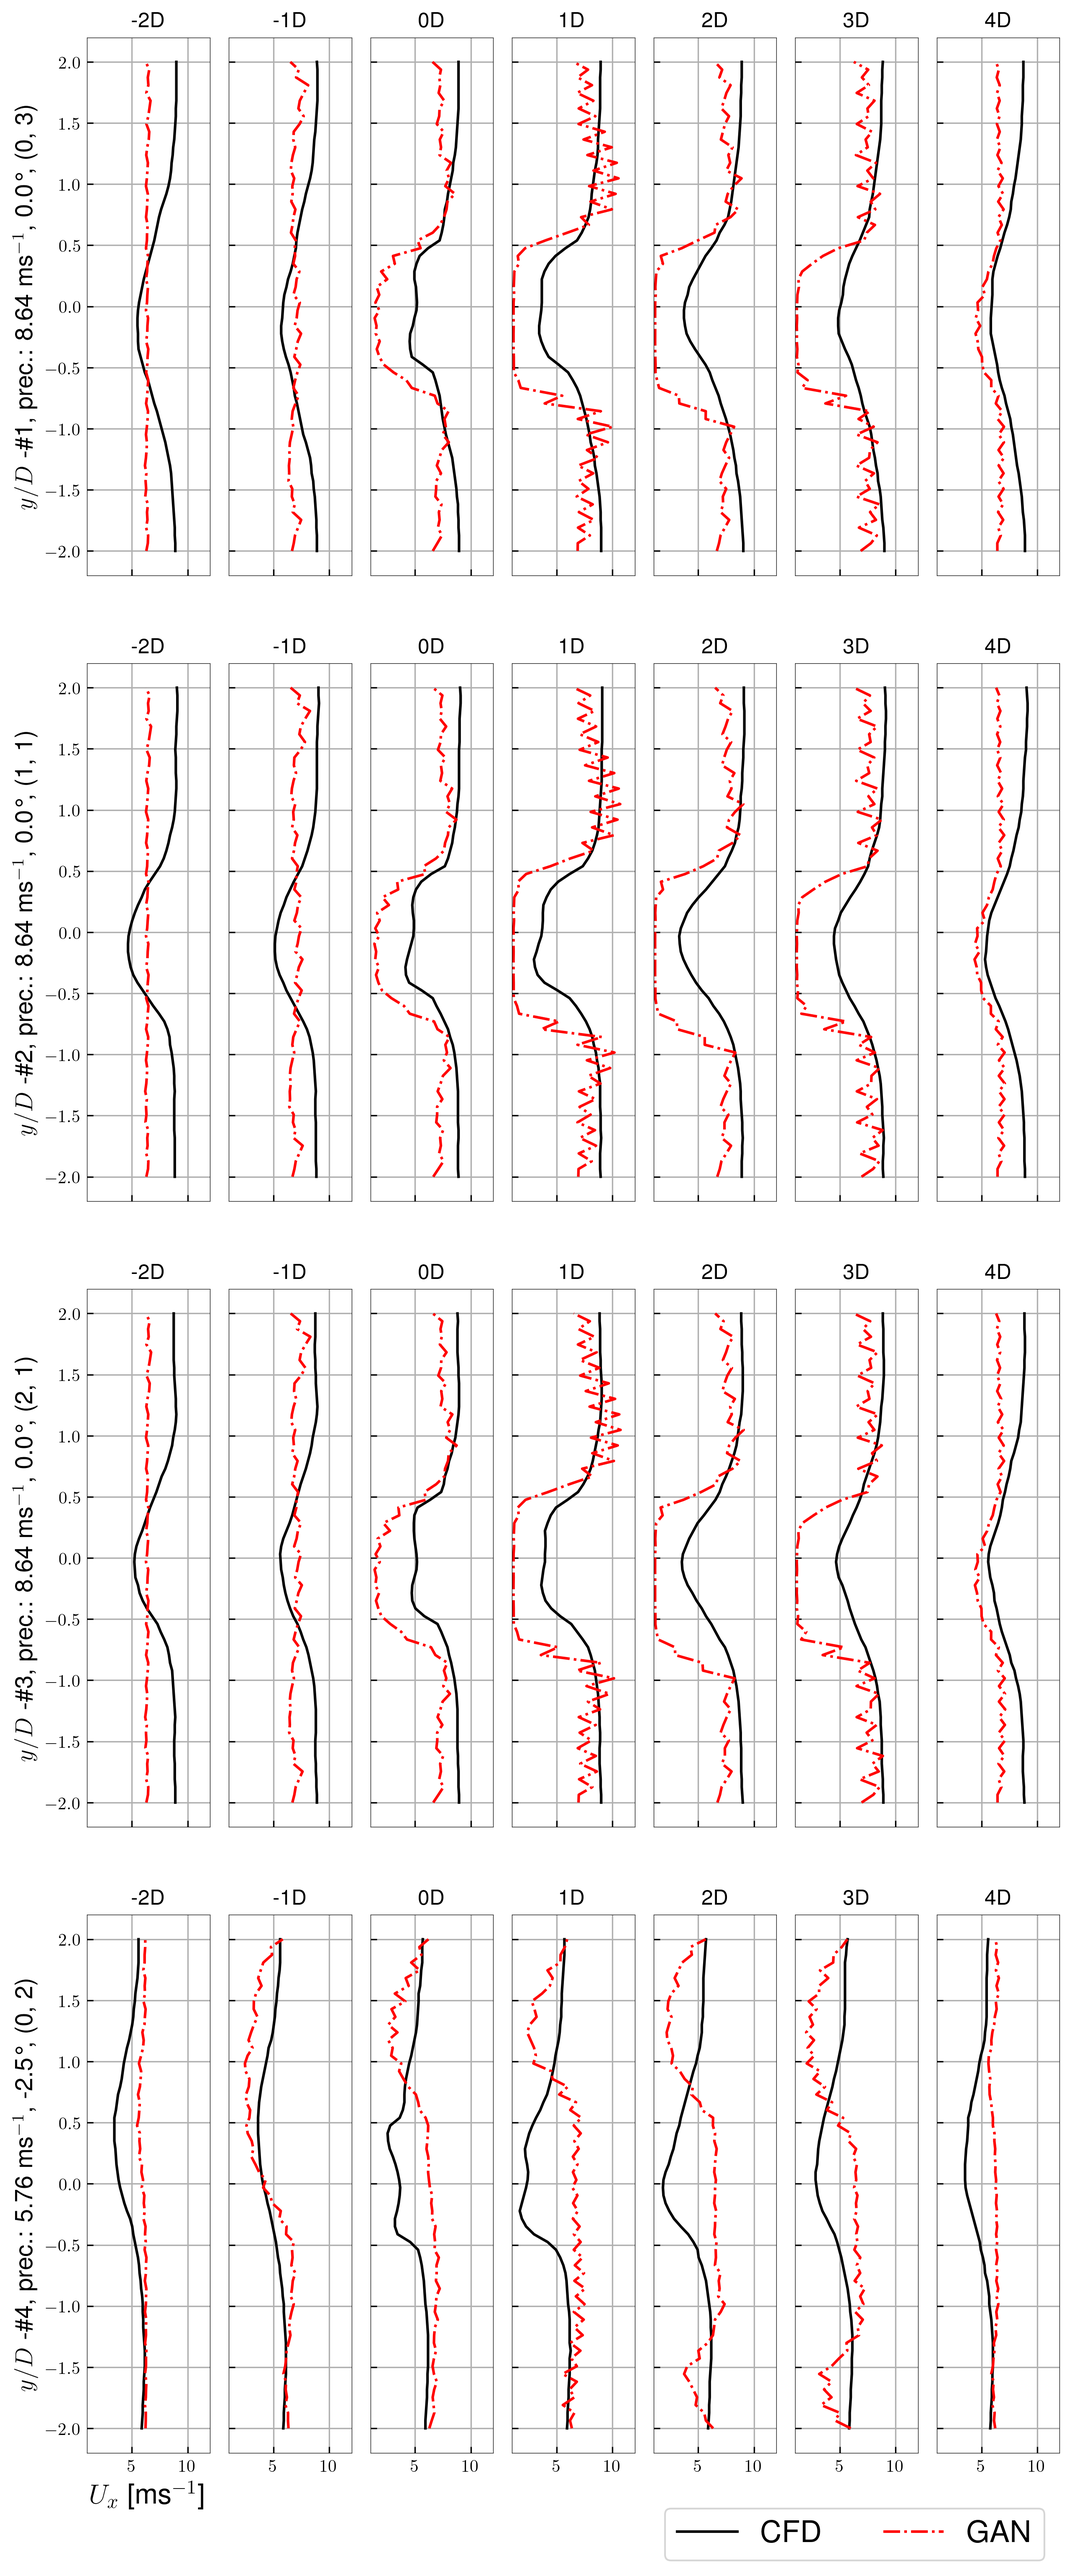
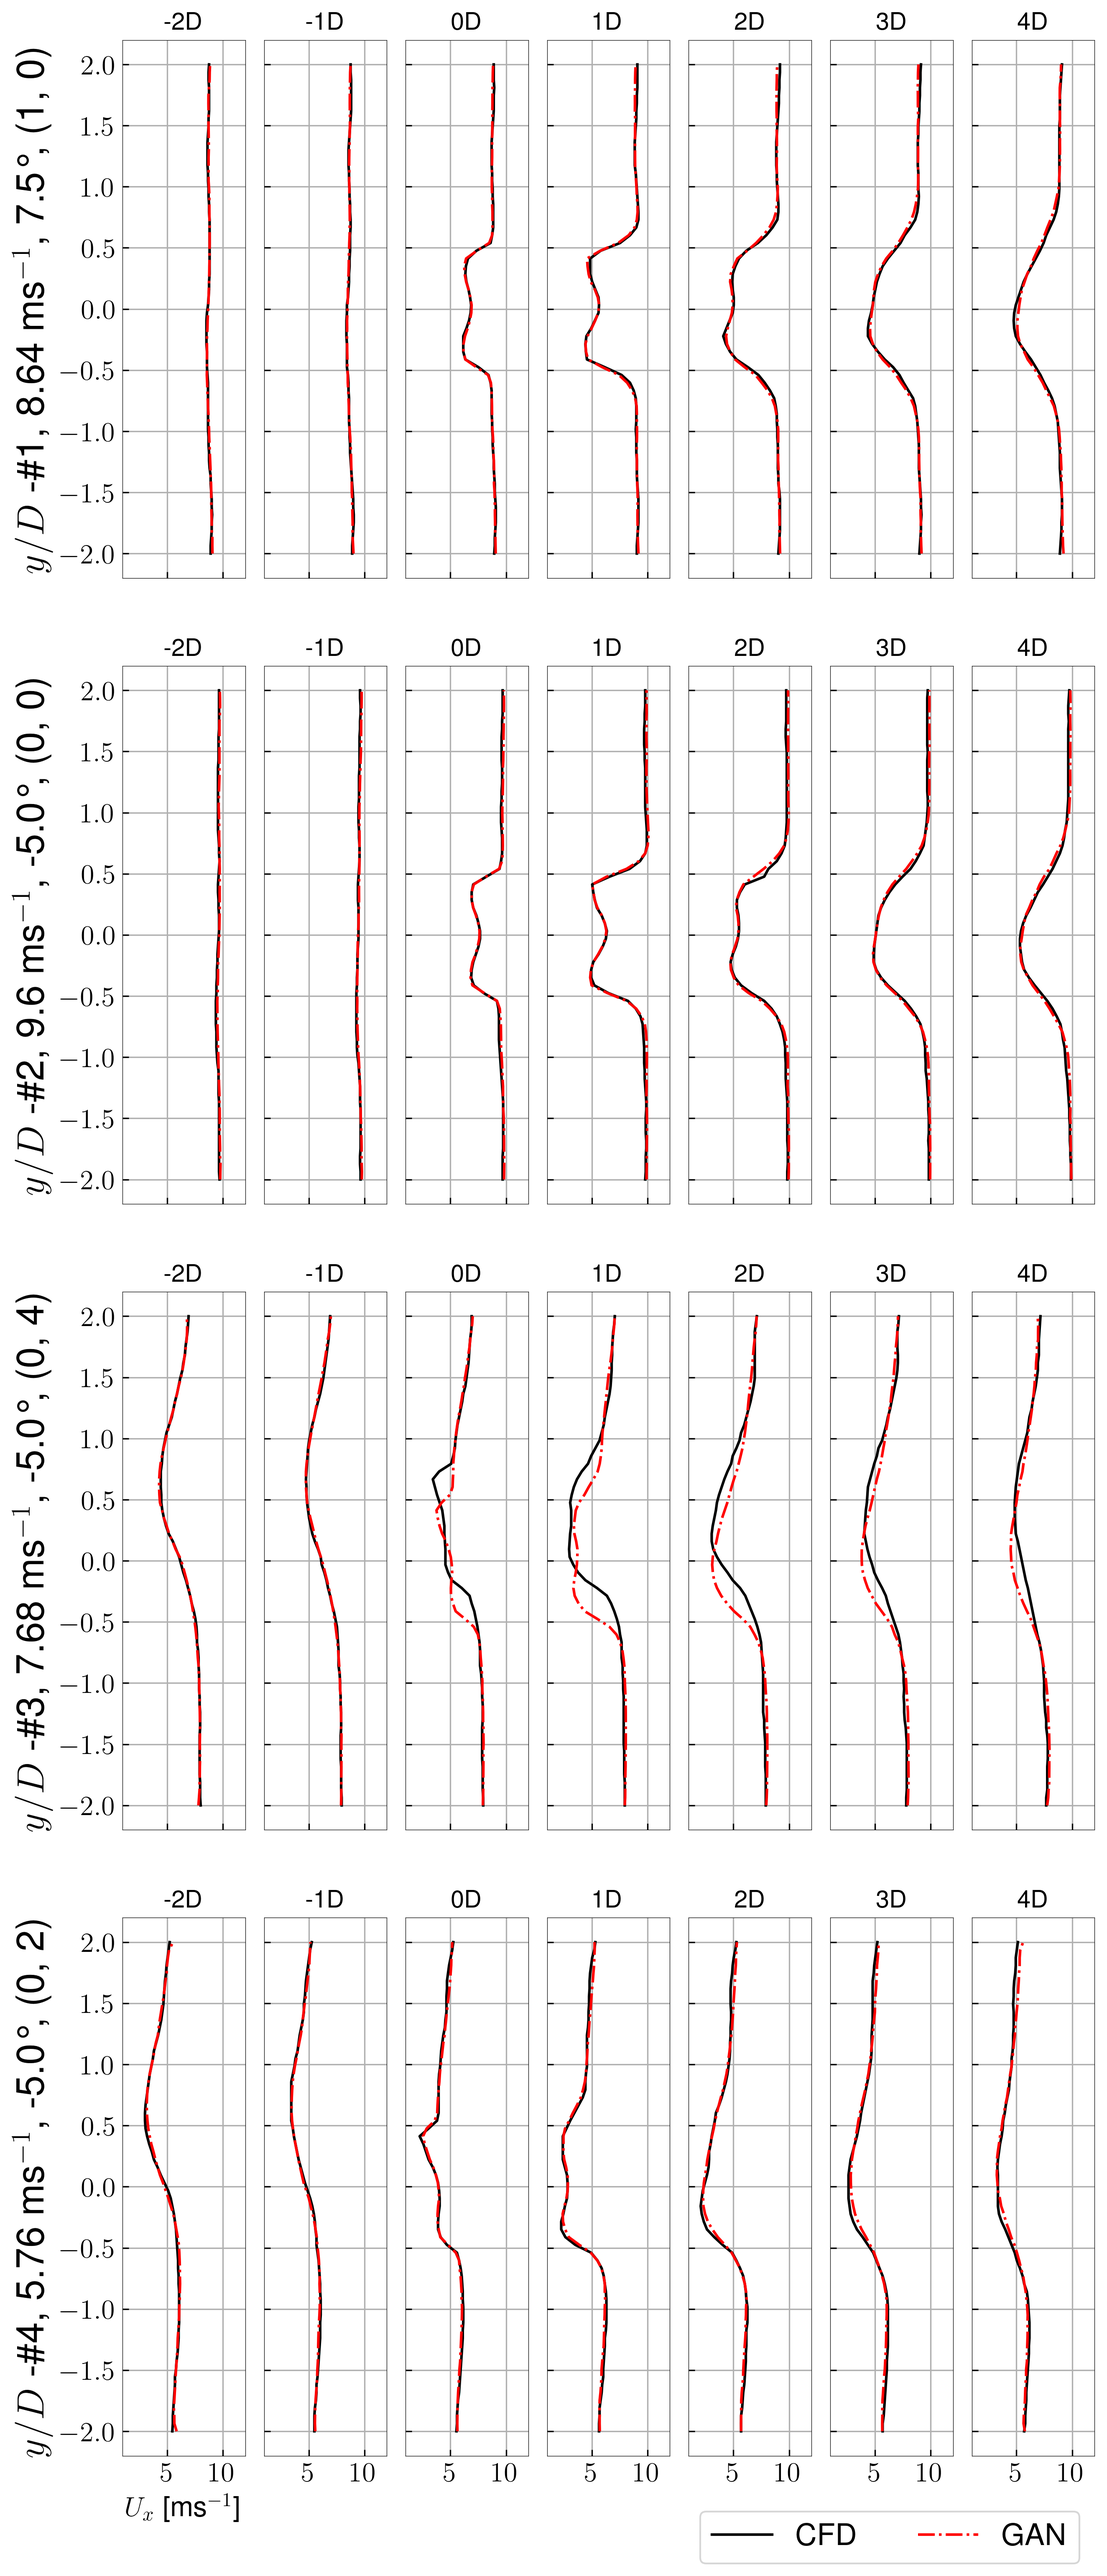
solved filename issue when saving batches evaluation

diff --git a/src/visualization/plots.py b/src/visualization/plots.py
@@ -469,17 +469,23 @@ class ProfilesPlotter:
                 (synth_curve,) = ax.plot(
                     synth_prof, self.y / self.wt_d, c="r", ls="-.", label="GAN"
                 )
+                ax.tick_params(
+                    axis="both",
+                    which="major",
+                    labelsize=16,
+                    direction="in",
+                )
                 ax.set_xlim(left=1, right=12)
                 ax.grid()
-                ax.set_title(f"{j-2}D")
-                ax.tick_params(direction="in")
+                ax.set_title(f"{j-2}D", fontsize=14)
+                # ax.tick_params(direction="in")
                 if i == len(self.grid.axes_row) - 1 and j == 0:
                     ax.set_xlabel("$U_x$ [ms$^{-1}$]", fontsize=16)
                 if j == 0:
                     m_s = "ms$^{-1}$"
                     ax.set_ylabel(
-                        f"$y/D$ -\#{i+1}, prec.: {self.prec[i]} {m_s}, {self.angle[i]}°, {self.pos[i]}",
-                        fontsize=14,
+                        f"$y/D$ -\#{i+1}, {self.prec[i]} {m_s}, {self.angle[i]}°, {self.pos[i]}",
+                        fontsize=22,
                     )
 
         self.fig.legend(

diff --git a/src/utils/callbacks.py b/src/utils/callbacks.py
@@ -155,7 +155,12 @@ class PlottingCallback(callbacks.Callback):
                 outputs["metadatas"]["pos"][1],
                 outputs["metadatas"]["timestep"],
             ):
-                filename = f"{prec.item()}_{angle}_({pos_x.item()},{pos_y.item()})_{timestep}.pt"
+                if config["data"]["t_window"] == 1000:
+                    filename = f"{prec.item()}_{angle}_({pos_x.item()},{pos_y.item()})_{timestep}.pt"
+                else:
+                    filename = (
+                        f"{prec.item()}_{angle}_({pos_x.item()},{pos_y.item()}).pt"
+                    )
                 # utils.save_image(
                 #     real, f"{os.path.join(path, 'real', filename)}", normalize=True
                 # )

diff --git a/scripts/test.py b/scripts/test.py
@@ -68,11 +68,11 @@ def main():
     datamodule = dataset.WakeGANDataModule(config)
     model = WakeGAN(config, dataset_train.norm_params)
 
-    # trainer.validate(
-    #     model=model,
-    #     datamodule=datamodule,
-    #     ckpt_path=_get_ckpt_path(),
-    # )
+    trainer.validate(
+        model=model,
+        datamodule=datamodule,
+        ckpt_path=_get_ckpt_path(),
+    )
     trainer.test(
         model=model,
         datamodule=datamodule,
